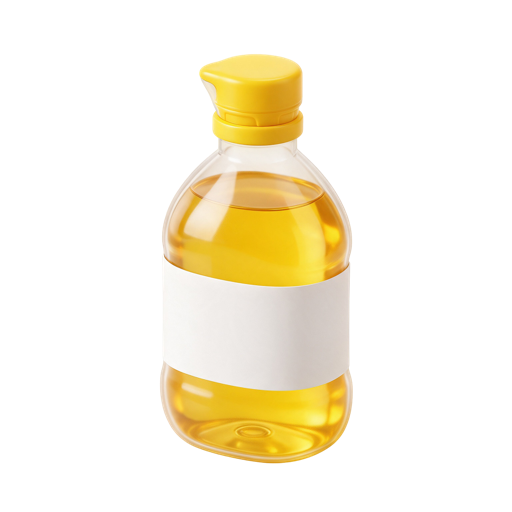
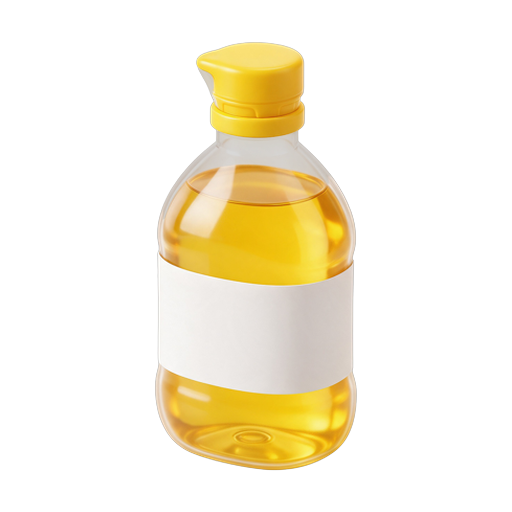
feat(design): give every product its own 3D picture
25 new pieces (22 products, plus phone-pay, crate and clock) and the scooter and coin sprout from mazhai. Every piece is trimmed and padded to the same margin, so art reads the same size everywhere.

Changed region(s): [[0.2812, 0.0625, 0.7188, 0.9375]]

diff --git a/apps/web/lib/preview/data.ts b/apps/web/lib/preview/data.ts
@@ -48,14 +48,14 @@ const rows: Row[] = [
   ["atta", "Aashirvaad Shudh Chakki Atta", "5 kg", "atta", "pack", 295, 12, 3, "atta"],
   ["salt", "Tata Salt", "1 kg", "salt", "pack", 28, 40, 10, "salt"],
   ["aavin-milk", "Aavin Toned Milk", "500 ml", "milk", "pack", 22, 30, 10, "milk"],
-  ["bread", "Britannia Milk Bread", "400 g", "bread", "pack", 50, 8, 3, "bag"],
-  ["eggs", "Eggs", null, "eggs", "piece", 6, 90, 30, "bag"],
-  ["chips", "Lay's Classic Salted", "50 g", "chips", "pack", 20, 24, 8, "bag"],
-  ["tea", "Tata Tea Premium", "250 g", "tea", "pack", 150, 10, 3, "bag"],
-  ["batter", "Idli Dosa Batter", "1 kg", "batter", "pack", 60, 10, 4, "bag"],
-  ["detergent", "Surf Excel Easy Wash", "1 kg", "detergent", "pack", 140, 8, 3, "bag"],
-  ["soap", "Hamam Neem Soap", "100 g", "soap", "pack", 38, 12, 4, "bag"],
-  ["toothpaste", "Colgate Strong Teeth", "100 g", "toothpaste", "pack", 55, 10, 3, "bag"],
+  ["bread", "Britannia Milk Bread", "400 g", "bread", "pack", 50, 8, 3, "bread"],
+  ["eggs", "Eggs", null, "eggs", "piece", 6, 90, 30, "eggs"],
+  ["chips", "Lay's Classic Salted", "50 g", "chips", "pack", 20, 24, 8, "chips"],
+  ["tea", "Tata Tea Premium", "250 g", "tea", "pack", 150, 10, 3, "tea"],
+  ["batter", "Idli Dosa Batter", "1 kg", "batter", "pack", 60, 10, 4, "batter"],
+  ["detergent", "Surf Excel Easy Wash", "1 kg", "detergent", "pack", 140, 8, 3, "detergent"],
+  ["soap", "Hamam Neem Soap", "100 g", "soap", "pack", 38, 12, 4, "soap"],
+  ["toothpaste", "Colgate Strong Teeth", "100 g", "toothpaste", "pack", 55, 10, 3, "toothpaste"],
 ];
 
 export const previewProducts: Product[] = rows.map(

diff --git a/apps/web/components/ui/art.tsx b/apps/web/components/ui/art.tsx
@@ -3,12 +3,19 @@ import { cn } from "@/lib/cn";
 
 /** 3D toy art in public/art, all made from one prompt recipe (see design/DESIGN.md). */
 export const artNames = [
+  // The shop and its moments
   "shop",
   "mic",
   "bag",
   "khata",
   "bill",
   "coins",
+  "savings",
+  "phone-pay",
+  "scooter",
+  "clock",
+  "crate",
+  // Products
   "noodles",
   "butter",
   "sugar",
@@ -19,6 +26,28 @@ export const artNames = [
   "rice",
   "salt",
   "dal",
+  "sambar",
+  "chilli",
+  "turmeric",
+  "tea",
+  "coffee",
+  "curd",
+  "ghee",
+  "eggs",
+  "bread",
+  "batter",
+  "chips",
+  "biscuits",
+  "cola",
+  "water",
+  "toothpaste",
+  "soap",
+  "detergent",
+  "dishwash",
+  "matchbox",
+  "onion",
+  "tomato",
+  "coconut",
 ] as const;
 
 export type ArtName = (typeof artNames)[number];
